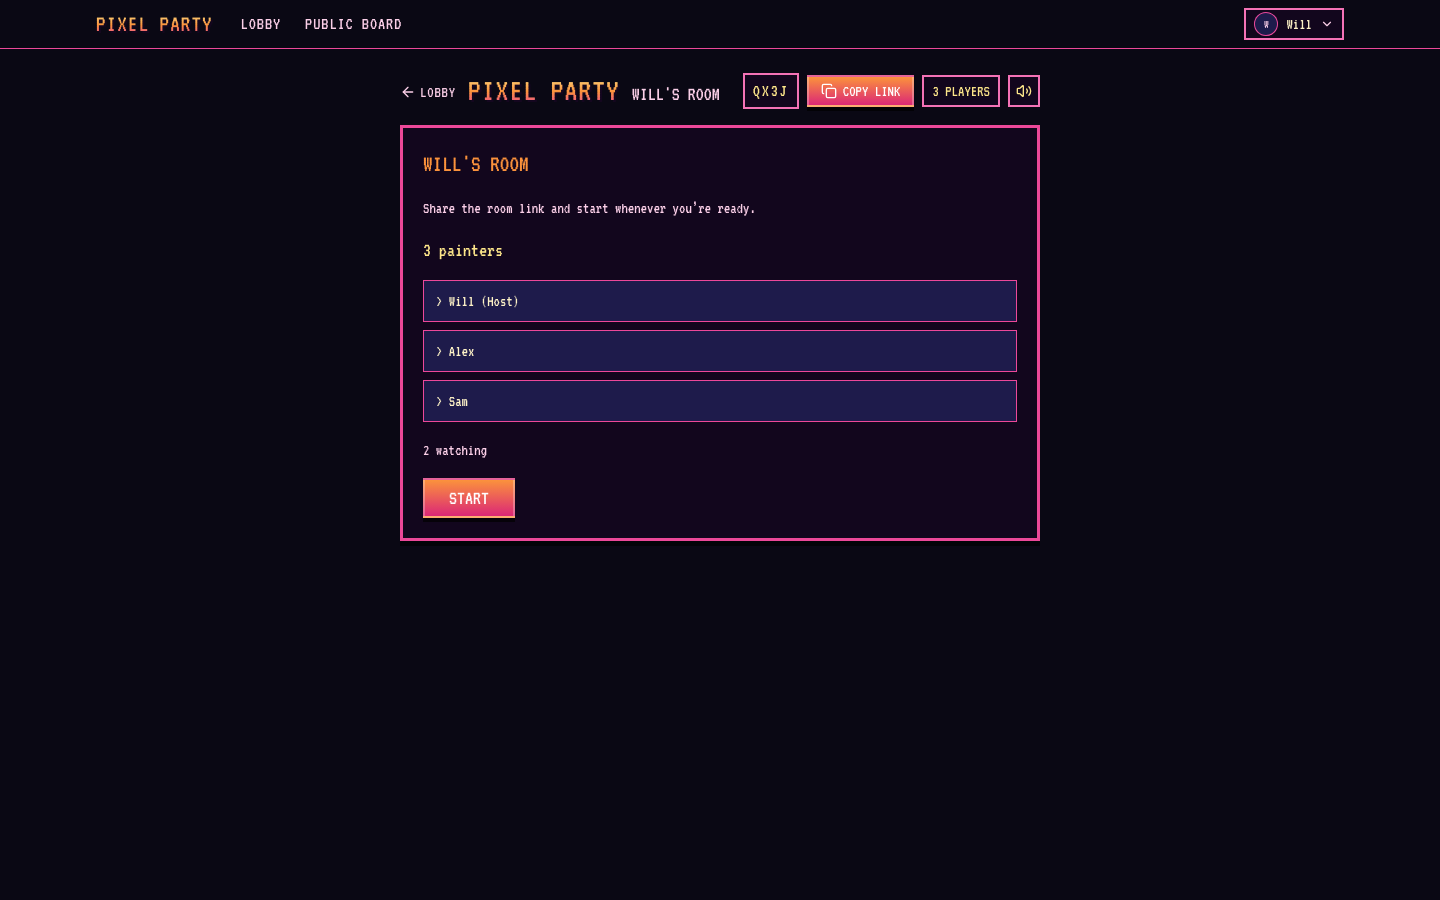
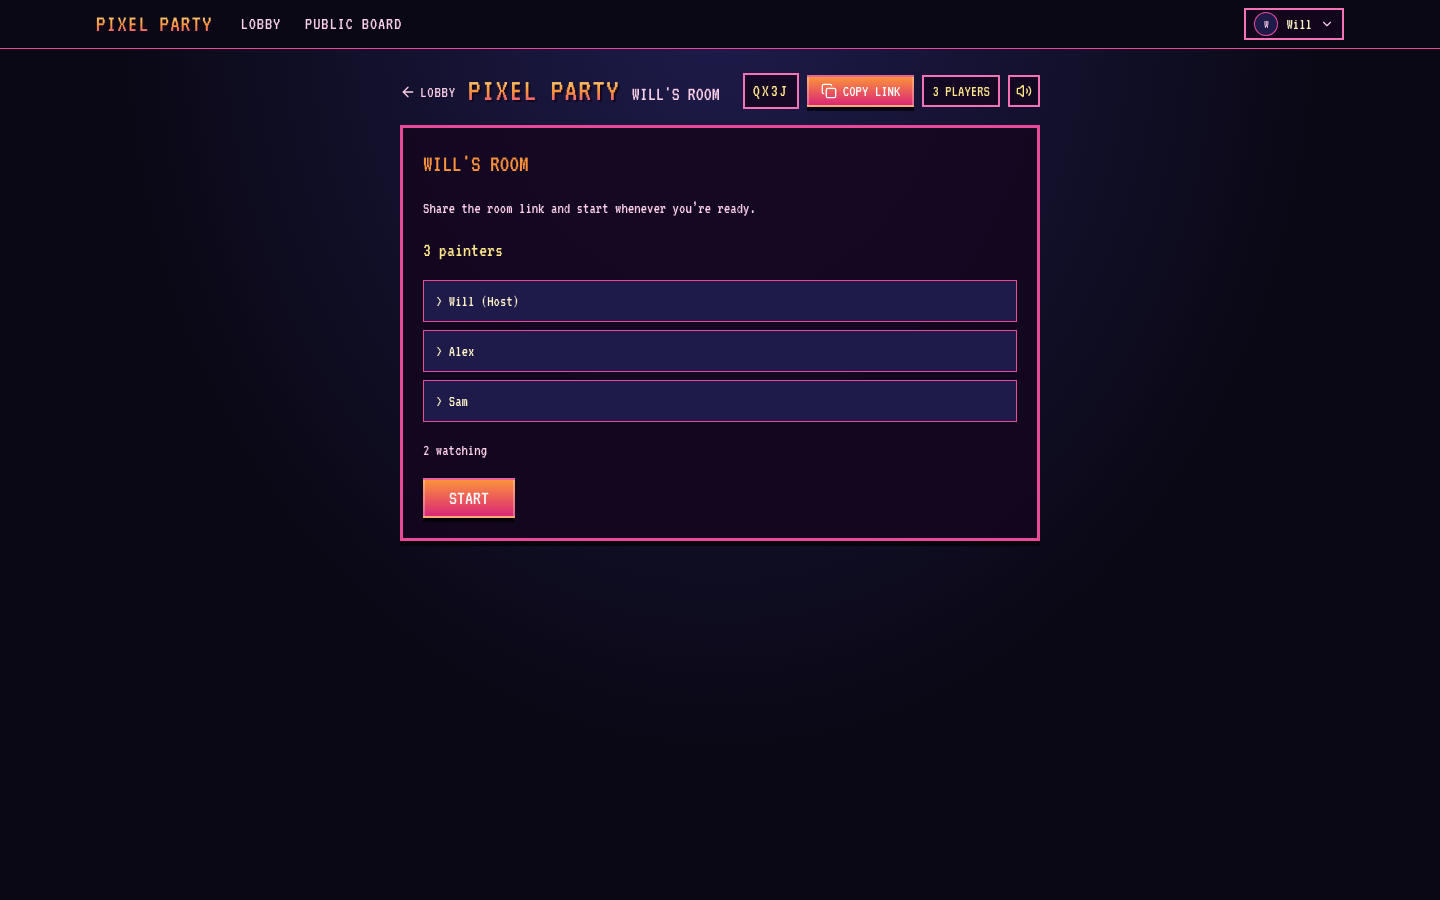
fix: address pixel redesign review findings

Changed region(s): [[0.25, 0.0311, 0.75, 0.1556]]

diff --git a/tests/offline/pixel.spec.ts b/tests/offline/pixel.spec.ts
@@ -66,6 +66,89 @@ async function pixelColor(page: Page, x: number, y: number) {
     [...canvas.getContext('2d')!.getImageData(point.x, point.y, 1, 1).data], { x, y })
 }
 
+for (const viewport of [{ width: 375, height: 812 }, { width: 1280, height: 720 }]) {
+  test(`intermission controls remain reachable at ${viewport.width}x${viewport.height}`, async ({ page }) => {
+    await page.setViewportSize(viewport)
+    await clientFixture(page, { signedIn: true })
+    let server!: WebSocketRoute
+    const messages: string[] = []
+    await page.routeWebSocket('**/api/pixel/**', socket => {
+      server = socket
+      socket.send(JSON.stringify(snapshot('playing')))
+      socket.onMessage(raw => messages.push(String(raw)))
+    })
+    await page.goto(`${origin}/r/AB2Z`)
+    await expect(page.getByTestId('pixel-canvas')).toBeVisible()
+    const round = { ...snapshot('playing').round, state: 'intermission', endsAt: null, endedAt: Date.now(), result: { outcome: 'won', score: 1 } }
+    server.send(JSON.stringify({ t: 'round', round }))
+    const overlay = page.getByTestId('round-overlay')
+    const next = overlay.getByRole('button', { name: 'Next Word Now' })
+    await expect(next).toBeVisible()
+    await next.scrollIntoViewIfNeeded()
+    const bounds = await next.boundingBox()
+    const frame = await page.getByTestId('pixel-canvas').boundingBox()
+    expect(bounds!.y + bounds!.height).toBeLessThanOrEqual(frame!.y + frame!.height)
+    await next.click()
+    await expect.poll(() => messages.some(message => JSON.parse(message).t === 'next')).toBe(true)
+    const dismiss = page.getByTestId('overlay-dismiss')
+    await dismiss.click()
+    await expect(overlay).toHaveCount(0)
+  })
+}
+
+test('selected swatch displays a separate keyboard focus outline', async ({ page }) => {
+  await clientFixture(page, { signedIn: true })
+  await page.routeWebSocket('**/api/pixel/**', socket => socket.send(JSON.stringify(snapshot('playing'))))
+  await page.goto(`${origin}/r/AB2Z`)
+  const selected = page.locator('[data-testid="palette"] button[aria-pressed="true"]')
+  await expect(selected).toBeVisible()
+  const before = await selected.evaluate(element => getComputedStyle(element).outlineOffset)
+  await page.keyboard.press('Tab')
+  await selected.focus()
+  await expect(selected).toHaveCSS('outline-offset', '2px')
+  expect(before).not.toBe('2px')
+})
+
+test('audio unlock retries on a later interaction until the context runs', async ({ page }) => {
+  await page.addInitScript(() => {
+    const state = window as unknown as { unlockAttempts: number; AudioContext: unknown }
+    state.unlockAttempts = 0
+    state.AudioContext = class {
+      state = 'suspended'
+      destination = {}
+      createGain() { return { gain: { value: 0 }, connect() {} } }
+      async resume() {
+        state.unlockAttempts++
+        if (state.unlockAttempts > 1) this.state = 'running'
+      }
+    }
+  })
+  await clientFixture(page, { signedIn: true })
+  await page.routeWebSocket('**/api/pixel/**', socket => socket.send(JSON.stringify(snapshot('playing'))))
+  await page.goto(`${origin}/r/AB2Z`)
+  await expect(page.getByTestId('pixel-canvas')).toBeVisible()
+  await page.keyboard.press('Shift')
+  await expect.poll(() => page.evaluate(() => (window as unknown as { unlockAttempts: number }).unlockAttempts)).toBe(1)
+  await page.keyboard.press('Shift')
+  await expect.poll(() => page.evaluate(() => (window as unknown as { unlockAttempts: number }).unlockAttempts)).toBe(2)
+  await page.keyboard.press('Shift')
+  expect(await page.evaluate(() => (window as unknown as { unlockAttempts: number }).unlockAttempts)).toBe(2)
+})
+
+test('room shells expose the navy body glow', async ({ page }) => {
+  await clientFixture(page, { signedIn: true })
+  await page.routeWebSocket('**/api/pixel/**', socket => socket.send(JSON.stringify(snapshot('playing'))))
+  await page.goto(`${origin}/r/AB2Z`)
+  await expect(page.getByTestId('pixel-canvas')).toBeVisible()
+  const backgrounds = await page.evaluate(() => {
+    const root = document.querySelector('[data-testid="app-root"]')!
+    const shell = root.querySelector('.h-screen')!
+    return [getComputedStyle(document.body).backgroundImage, getComputedStyle(root).backgroundColor, getComputedStyle(shell).backgroundColor]
+  })
+  expect(backgrounds[0]).toContain('radial-gradient')
+  expect(backgrounds.slice(1)).toEqual(['rgba(0, 0, 0, 0)', 'rgba(0, 0, 0, 0)'])
+})
+
 test('signed-out private visitors never mount room content during a delayed preflight', async ({ page }) => {
   let release!: () => void
   const preflight = new Promise<void>(resolve => { release = resolve })

diff --git a/src/lib/sfx.ts b/src/lib/sfx.ts
@@ -1,7 +1,7 @@
 import type { SoundName } from '@/game/sound-events'
 
 export const MUTE_KEY = 'pixel-party:muted'
-export interface Sfx { play(name: SoundName): void; unlock(): void; isMuted(): boolean; setMuted(m: boolean): void }
+export interface Sfx { play(name: SoundName): void; unlock(): Promise<boolean>; isMuted(): boolean; setMuted(m: boolean): void }
 
 const tones: Record<SoundName, { notes: number[]; duration: number; wave: OscillatorType }> = {
   guess: { notes: [523.25, 659.25], duration: 0.09, wave: 'square' },
@@ -18,15 +18,22 @@ export function createSfx(opts: { audioContext?: () => AudioContext; storage?: P
     muted = storage?.getItem(MUTE_KEY) === '1'
   } catch { }
   let context: AudioContext | undefined
+  let master: GainNode | undefined
   return {
-    unlock() {
+    async unlock() {
       try {
         context ??= opts.audioContext ? opts.audioContext() : new AudioContext()
-        if (context.state === 'suspended') void context.resume().catch(() => {})
-      } catch { }
+        if (!master) {
+          master = context.createGain()
+          master.gain.value = 0.12
+          master.connect(context.destination)
+        }
+        if (context.state === 'suspended') await context.resume()
+        return context.state === 'running'
+      } catch { return false }
     },
     play(name) {
-      if (!context || muted || context.state !== 'running') return
+      if (!context || !master || muted || context.state !== 'running') return
       const tone = tones[name]
       tone.notes.forEach((frequency, index) => {
         const start = context!.currentTime + index * tone.duration
@@ -38,7 +45,7 @@ export function createSfx(opts: { audioContext?: () => AudioContext; storage?: P
         gain.gain.linearRampToValueAtTime(0.1, start + 0.01)
         gain.gain.exponentialRampToValueAtTime(0.0001, start + tone.duration)
         oscillator.connect(gain)
-        gain.connect(context!.destination)
+        gain.connect(master!)
         oscillator.start(start)
         oscillator.stop(start + tone.duration)
       })

diff --git a/src/components/game/useGameSounds.ts b/src/components/game/useGameSounds.ts
@@ -1,6 +1,6 @@
 import { useEffect, useRef, useState } from 'react'
 import type { ClientState } from '@/game/client-state'
-import { countdownTickSecond, soundEventsFor } from '@/game/sound-events'
+import { createCountdownGate, soundEventsFor } from '@/game/sound-events'
 import { createSfx } from '@/lib/sfx'
 
 export function useGameSounds(state: ClientState): { muted: boolean; toggleMute: () => void } {
@@ -16,31 +16,27 @@ export function useGameSounds(state: ClientState): { muted: boolean; toggleMute:
   }, [state, sfx])
 
   useEffect(() => {
+    let active = true
     const unlock = () => {
-      sfx.unlock()
-      window.removeEventListener('pointerdown', unlock)
-      window.removeEventListener('keydown', unlock)
+      void sfx.unlock().then(success => {
+        if (!active || !success) return
+        window.removeEventListener('pointerdown', unlock)
+        window.removeEventListener('keydown', unlock)
+      })
     }
     window.addEventListener('pointerdown', unlock)
     window.addEventListener('keydown', unlock)
     return () => {
+      active = false
       window.removeEventListener('pointerdown', unlock)
       window.removeEventListener('keydown', unlock)
     }
   }, [sfx])
 
   useEffect(() => {
-    let lastRoundId: string | undefined
-    let lastSecond: number | null = null
+    const shouldTick = createCountdownGate()
     const interval = window.setInterval(() => {
-      const round = current.current.round
-      if (round?.id !== lastRoundId) {
-        lastRoundId = round?.id
-        lastSecond = null
-      }
-      const second = countdownTickSecond(round, Date.now())
-      if (second !== null && second !== lastSecond) sfx.play('tick')
-      lastSecond = second
+      if (shouldTick(current.current, Date.now())) sfx.play('tick')
     }, 250)
     return () => window.clearInterval(interval)
   }, [sfx])

diff --git a/src/game/sound-events.test.ts b/src/game/sound-events.test.ts
@@ -1,13 +1,27 @@
 import { describe, expect, it } from 'vitest'
 import { initialClientState } from './client-state'
 import type { RoundView } from './protocol'
-import { countdownTickSecond, soundEventsFor } from './sound-events'
+import { countdownTickSecond, createCountdownGate, soundEventsFor } from './sound-events'
 
 const round: RoundView = { id: 'r1', word: 'cat', state: 'playing', startedAt: 0, endsAt: 10000, askAvailableAt: 0 }
 const loaded = { ...initialClientState(), snapshotLoaded: true, round }
 const entry = { id: 1, atMs: 0, guesses: ['cat'], matched: false }
 
 describe('sound events', () => {
+  it('plays a new non-matching guess when the log rolls over', () => {
+    const log = Array.from({ length: 50 }, (_, index) => ({ ...entry, id: 50 - index }))
+    expect(soundEventsFor({ ...loaded, guessLog: log }, { ...loaded, guessLog: [{ ...entry, id: 51 }, ...log.slice(0, 49)] })).toEqual(['guess'])
+  })
+  it('silences loading and reconnects and resets the countdown baseline for snapshots', () => {
+    const tick = createCountdownGate()
+    const live = { ...loaded, connected: true, snapshotSeq: 1 }
+    expect(tick(live, 5000)).toBe(false)
+    expect(tick(live, 6000)).toBe(true)
+    expect(tick({ ...live, connected: false }, 7000)).toBe(false)
+    expect(tick({ ...live, snapshotLoaded: false }, 7000)).toBe(false)
+    expect(tick({ ...live, snapshotSeq: 2 }, 7000)).toBe(false)
+    expect(tick({ ...live, snapshotSeq: 2 }, 8000)).toBe(true)
+  })
   it('returns nothing on the first snapshot or a new round id', () => {
     expect(soundEventsFor(initialClientState(), { ...loaded, guessLog: [entry] })).toEqual([])
     expect(soundEventsFor(loaded, { ...loaded, round: { ...round, id: 'r2' }, guessLog: [entry] })).toEqual([])

diff --git a/src/lib/sfx.test.ts b/src/lib/sfx.test.ts
@@ -9,6 +9,28 @@ function fakeAudio() {
 }
 
 describe('sfx', () => {
+  it('retries a blocked unlock and shares one master gain across notes', async () => {
+    const noteNodes: { connect: ReturnType<typeof vi.fn> }[] = []
+    const master = { gain: { value: 0 }, connect: vi.fn() }
+    const audio = fakeAudio()
+    let running = false
+    Object.defineProperty(audio.context, 'state', { get: () => running ? 'running' : 'suspended' })
+    audio.context.resume = vi.fn(async () => { if ((audio.context.resume as ReturnType<typeof vi.fn>).mock.calls.length > 1) running = true })
+    audio.context.createGain = vi.fn(() => {
+      if (!(audio.context.createGain as ReturnType<typeof vi.fn>).mock.calls.length || (audio.context.createGain as ReturnType<typeof vi.fn>).mock.calls.length === 1) return master as unknown as GainNode
+      const node = { gain: { setValueAtTime: vi.fn(), linearRampToValueAtTime: vi.fn(), exponentialRampToValueAtTime: vi.fn() }, connect: vi.fn() }
+      noteNodes.push(node)
+      return node as unknown as GainNode
+    })
+    const sfx = createSfx({ audioContext: () => audio.context })
+    expect(await sfx.unlock()).toBe(false)
+    expect(await sfx.unlock()).toBe(true)
+    sfx.play('guess')
+    expect(master.gain.value).toBe(0.12)
+    expect(master.connect).toHaveBeenCalledWith(audio.context.destination)
+    expect(noteNodes).toHaveLength(2)
+    expect(noteNodes.every(node => node.connect.mock.calls[0][0] === master)).toBe(true)
+  })
   it('plays nothing before unlock', () => {
     const audio = fakeAudio()
     createSfx({ audioContext: () => audio.context }).play('guess')

diff --git a/src/game/sound-events.ts b/src/game/sound-events.ts
@@ -8,9 +8,31 @@ export function soundEventsFor(prev: ClientState, next: ClientState): SoundName[
   if (prev.round.state === 'playing' && next.round.state !== 'playing') {
     if (next.round.result?.outcome === 'won' || next.round.result?.outcome === 'teamWin') return ['win']
   }
-  const events: SoundName[] = next.guessLog.length > prev.guessLog.length && !next.guessLog[0]?.matched ? ['guess'] : []
+  const front = next.guessLog[0]
+  const events: SoundName[] = front && front.id !== prev.guessLog[0]?.id && !front.matched ? ['guess'] : []
   if (prev.round.state === 'playing' && next.round.state !== 'playing' && next.round.result?.outcome === 'timeout') events.push('timeout')
   return events
+}
+
+export function createCountdownGate() {
+  let lastRoundId: string | undefined
+  let lastSnapshotSeq: number | undefined
+  let lastSecond: number | null = null
+  let live = false
+  return (state: ClientState, now: number): boolean => {
+    const second = countdownTickSecond(state.round, now)
+    if (!state.connected || !state.snapshotLoaded) {
+      live = false
+      return false
+    }
+    const resync = !live || lastRoundId !== state.round?.id || lastSnapshotSeq !== state.snapshotSeq
+    const play = !resync && second !== null && second !== lastSecond
+    live = true
+    lastRoundId = state.round?.id
+    lastSnapshotSeq = state.snapshotSeq
+    lastSecond = second
+    return play
+  }
 }
 
 export function countdownTickSecond(round: RoundView | null, now: number): number | null {

diff --git a/src/pages/(app)/r/[code].tsx b/src/pages/(app)/r/[code].tsx
@@ -683,9 +683,9 @@ export default function RoomPage() {
                       setDismissedOverlayRoundId(state.round.id)
                     }
                   }}
-                  className="absolute inset-0 z-20 flex flex-col items-center justify-center bg-background/90 p-4 text-center focus:outline-none"
+                  className="absolute inset-0 z-20 flex flex-col items-center overflow-y-auto bg-background/90 p-4 text-center focus:outline-none"
                 >
-                  <div className="pp-panel flex w-full max-w-sm flex-col items-center gap-3 p-5">
+                  <div className="pp-panel my-auto flex w-full max-w-sm shrink-0 flex-col items-center gap-3 p-5">
                     {outcome === 'won' ? (
                       <>
                         <div className="pp-chip flex h-12 w-12 items-center justify-center">

diff --git a/src/pages/_app.tsx b/src/pages/_app.tsx
@@ -29,7 +29,7 @@ export default function App() {
         {/* data-testid="app-root" is the canonical "app shell mounted" hook,
             present on every page (static and dynamic). Don't rename without
             updating templates/tests. */}
-        <div data-testid="app-root" className="min-h-screen bg-background text-foreground">
+        <div data-testid="app-root" className="min-h-screen text-foreground">
           <Suspense fallback={<div className="flex items-center justify-center min-h-screen text-muted-foreground">Loading...</div>}>
             <Outlet />
           </Suspense>

diff --git a/src/pages/(app)/_layout.tsx b/src/pages/(app)/_layout.tsx
@@ -31,7 +31,7 @@ export default function AppLayout() {
           when <Seo> unmounts, so every route without <Seo> sets its own. */}
       <title>{APP_NAME}</title>
       <AuthBoot>
-        <div className="flex h-screen flex-col bg-background overflow-hidden">
+        <div className="flex h-screen flex-col overflow-hidden">
           <Navigation />
           <main className="flex-1 overflow-y-auto min-h-0">
             <Suspense fallback={<div className="flex items-center justify-center h-full text-muted-foreground">Loading...</div>}>

diff --git a/tests/offline/screenshots.spec.ts b/tests/offline/screenshots.spec.ts
@@ -348,6 +348,10 @@ test('capture playing room, lobby, overlay, landing, and home screenshots', asyn
   )
   await expect(page.getByTestId('round-overlay')).toBeVisible()
   await page.screenshot({ path: resolve(screenshotsDir, 'room-overlay-1440x900.png') })
+  await page.setViewportSize({ width: 375, height: 812 })
+  await page.waitForTimeout(150)
+  await page.screenshot({ path: resolve(screenshotsDir, 'room-overlay-375x812.png') })
+  await page.setViewportSize({ width: 1440, height: 900 })
 
   // 5. Lobby at 1440x900
   server.send(

diff --git a/src/components/game/Palette.tsx b/src/components/game/Palette.tsx
@@ -61,8 +61,7 @@ export function Palette({
               )}
               style={{
                 backgroundColor: hex,
-                outline: isSelected ? '3px solid #fde68a' : undefined,
-                outlineOffset: isSelected ? '0px' : undefined,
+                boxShadow: isSelected ? 'inset 0 0 0 3px #fde68a' : undefined,
                 zIndex: isSelected ? 10 : undefined,
               }}
             >
